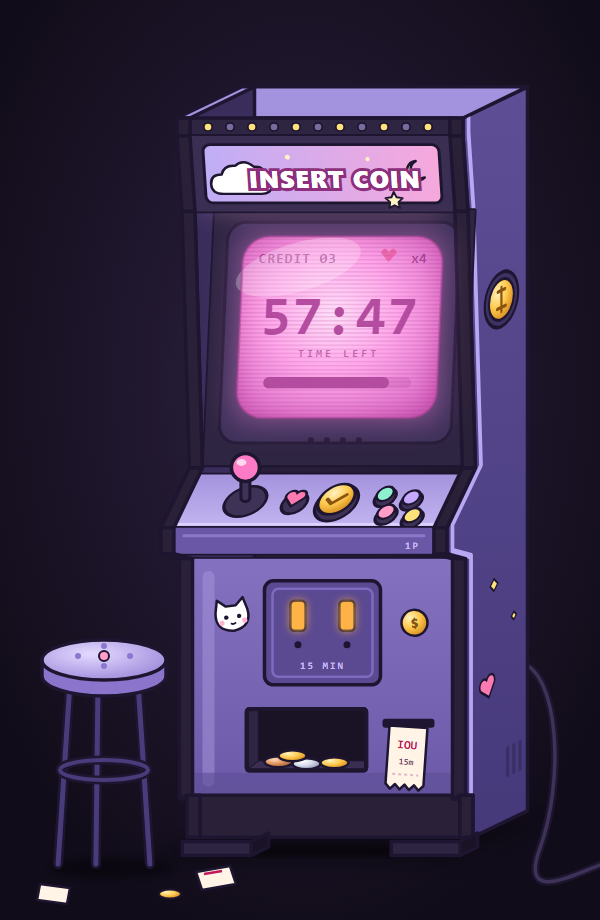
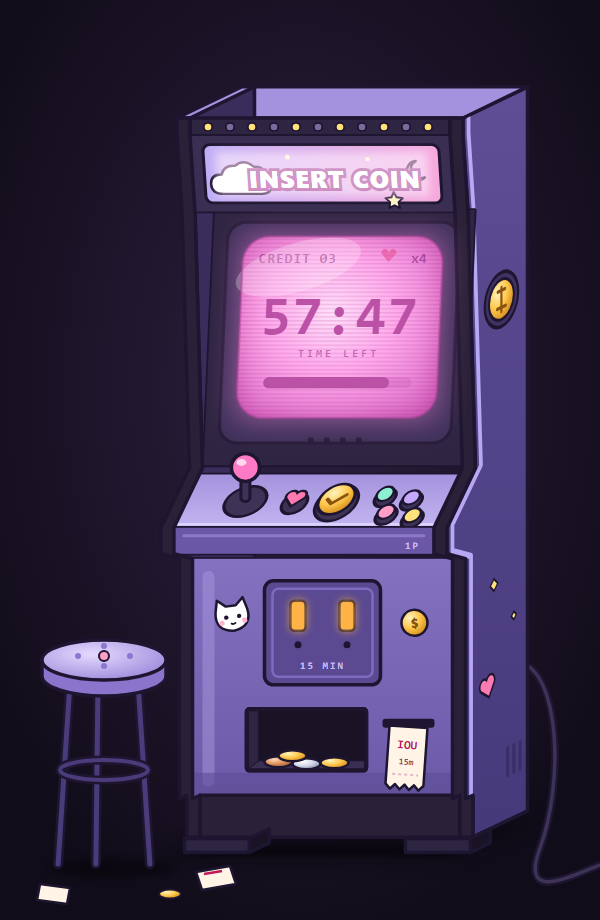
Art v4 cleanup: continuous side trims, feet under kick plate, glows clipped to their surfaces; spike passthrough from art alpha hull

diff --git a/tools/art/cozy_cabinet.py b/tools/art/cozy_cabinet.py
@@ -173,12 +173,14 @@ def marquee_face():
     </g>
     <text x="{W / 2 + 12}" y="54" text-anchor="middle" font-family="Segoe UI Black, Arial Rounded MT Bold, sans-serif" font-size="25"
           font-weight="900" fill="#FFFFFF" stroke="#8E2F7E" stroke-width="6" paint-order="stroke" letter-spacing="1">INSERT COIN</text>'''
-    glow = poly([marquee.to_screen(12, 9), marquee.to_screen(W - 12, 9), marquee.to_screen(W - 12, marquee.length - 9),
-                 marquee.to_screen(12, marquee.length - 9)], "#FFB6EA", 'opacity="0.55" filter="url(#glow)"')
+    glow = (f'<clipPath id="marqueeClip">{poly(marquee.quad(), "#000")}</clipPath>'
+            f'<g clip-path="url(#marqueeClip)" style="mix-blend-mode:screen">'
+            + poly([marquee.to_screen(24, 16), marquee.to_screen(W - 24, 16), marquee.to_screen(W - 24, marquee.length - 16),
+                    marquee.to_screen(24, marquee.length - 16)], "#FFD0F2", 'opacity="0.6" filter="url(#softGlow)"') + '</g>')
     return f'''<g id="marquee">
-  {glow}
   {poly(hood.quad(), "#2E2542", STROKE)}{hood.group(hood_lights)}
   {poly(marquee.quad(), "#3A2E52", STROKE)}{marquee.group(sign)}
+  {glow}
 </g>'''
 
 
@@ -272,18 +274,22 @@ def body_face():
 
 
 def trims():
-    def strip(x0, x1):
-        return "".join(poly([P(x0, z1, y1), P(x1, z1, y1), P(x1, z2, y2), P(x0, z2, y2)], "#2A2138", STROKE)
-                       for (z1, y1), (z2, y2) in zip(EDGE, EDGE[1:]))
-    return f'<g id="trim-left">{strip(L - T, L)}</g>\n<g id="trim-right">{strip(R, R + T)}</g>'
+    def strip(x0, x1, name):
+        outer = [P(x0, z, y) for z, y in EDGE]
+        inner = [P(x1, z, y) for z, y in EDGE]
+        shape = f'<polygon points="{pts(outer + inner[::-1])}" fill="#2A2138"/>'
+        lines = "".join(f'<polyline points="{pts(side)}" fill="none" {STROKE}/>' for side in (outer, inner))
+        caps = f'<polyline points="{pts([outer[0], inner[0]])}" fill="none" {STROKE}/><polyline points="{pts([outer[-1], inner[-1]])}" fill="none" {STROKE}/>'
+        return f'<g id="{name}">{shape}{lines}{caps}</g>'
+    return strip(L - T, L, "trim-left") + strip(R, R + T, "trim-right")
 
 
 def feet():
     def box(x0, x1):
-        front = [P(x0, 2, FLOOR), P(x1, 2, FLOOR), P(x1, 2, FLOOR + 14), P(x0, 2, FLOOR + 14)]
-        side = [P(x1, 2, FLOOR), P(x1, 30, FLOOR), P(x1, 30, FLOOR + 14), P(x1, 2, FLOOR + 14)]
+        front = [P(x0, 12, FLOOR), P(x1, 12, FLOOR), P(x1, 12, FLOOR + 14), P(x0, 12, FLOOR + 14)]
+        side = [P(x1, 12, FLOOR), P(x1, 44, FLOOR), P(x1, 44, FLOOR + 14), P(x1, 12, FLOOR + 14)]
         return poly(side, "#1A1326", STROKE) + poly(front, "#2E2542", STROKE)
-    return f'<g id="feet">{box(L - T + 4, L + 60)}{box(R - 60, R + T - 4)}</g>'
+    return f'<g id="feet">{box(L - T, L + 52)}{box(R - 52, R + T)}</g>'
 
 
 def cable():
@@ -323,7 +329,9 @@ def props():
 
 def screen_glow():
     q = [screen.to_screen(30, 26), screen.to_screen(W - 30, 26), screen.to_screen(W - 30, 204), screen.to_screen(30, 204)]
-    return f'<g id="screen-glow" style="mix-blend-mode:screen">{poly(q, "#FF6FD2", "opacity=\"0.5\" filter=\"url(#glow)\"")}</g>'
+    return (f'<clipPath id="screenFaceClip">{poly(screen.quad(), "#000")}</clipPath>'
+            f'<g id="screen-glow" clip-path="url(#screenFaceClip)" style="mix-blend-mode:screen">'
+            f'{poly(q, "#FF6FD2", "opacity=\"0.55\" filter=\"url(#glow)\"")}</g>')
 
 
 def anchors():

diff --git a/src/InsertCoin.Game/spike/Spike.cs b/src/InsertCoin.Game/spike/Spike.cs
@@ -20,32 +20,12 @@ public partial class Spike : Node2D
                  $"transparent={DisplayServer.IsWindowTransparencyAvailable()} lowcpu={OS.LowProcessorUsageMode}");
 
         // Base art: SVG pre-rendered by Chrome at 2x (keeps text, blur shadows and baked glow).
-        AddChild(new Sprite2D { Texture = GD.Load<Texture2D>("res://skins/cozy/cabinet@2x.png"), Centered = false, Scale = new Vector2(0.5f, 0.5f) });
+        var art = GD.Load<Texture2D>("res://skins/cozy/cabinet@2x.png");
+        AddChild(new Sprite2D { Texture = art, Centered = false, Scale = new Vector2(0.5f, 0.5f) });
 
-        // Animated glow: additive radial halo over the CRT (Compatibility renderer has no usable 2D bloom here).
-        var halo = new Sprite2D
-        {
-            Texture = new GradientTexture2D
-            {
-                Width = 420, Height = 380, Fill = GradientTexture2D.FillEnum.Radial,
-                FillFrom = new Vector2(0.5f, 0.5f), FillTo = new Vector2(0.5f, 0.0f),
-                Gradient = new Gradient { Colors = [new Color(1f, 0.45f, 0.85f, 0.55f), new Color(1f, 0.45f, 0.85f, 0f)], Offsets = [0f, 1f] },
-            },
-            Position = new Vector2(338, 330),
-            Material = new CanvasItemMaterial { BlendMode = CanvasItemMaterial.BlendModeEnum.Add },
-        };
-        AddChild(halo);
-        if (!args.ContainsKey("static"))
-        {
-            var pulse = CreateTween().SetLoops();
-            pulse.TweenProperty(halo, "modulate:a", 0.45f, 1.6).SetTrans(Tween.TransitionType.Sine);
-            pulse.TweenProperty(halo, "modulate:a", 1.0f, 1.6).SetTrans(Tween.TransitionType.Sine);
-        }
-
-        // Click-through everywhere except the cabinet silhouette (window pixels).
-        Vector2[] silhouette = [new(30, 630), new(170, 630), new(170, 118), new(250, 82), new(530, 82), new(530, 812),
-                                new(480, 860), new(240, 905), new(30, 905)];
-        DisplayServer.WindowSetMousePassthrough([.. silhouette.Select(p => p * WindowScale)]);
+        // On Windows the passthrough polygon is a window region: it clips drawing too. So it must enclose every
+        // visible pixel, soft shadows included — take the convex hull of the art's alpha instead of a hand-made shape.
+        DisplayServer.WindowSetMousePassthrough(VisibleHull(art.GetImage(), 0.5f * WindowScale));
 
         if (args.TryGetValue("pos", out var pos) && pos.Split(',') is [var x, var y])
             DisplayServer.WindowSetPosition(new Vector2I(int.Parse(x), int.Parse(y)));
@@ -112,6 +92,14 @@ public partial class Spike : Node2D
                 GetTree().Quit();
                 break;
         }
+    }
+
+    private static Vector2[] VisibleHull(Image image, float toWindow)
+    {
+        var alpha = new Bitmap();
+        alpha.CreateFromImageAlpha(image, 0.004f);
+        var points = alpha.OpaqueToPolygons(new Rect2I(Vector2I.Zero, image.GetSize()), 2f).SelectMany(p => p);
+        return [.. Geometry2D.ConvexHull([.. points]).Select(p => (p * toWindow).Round())];
     }
 
     private static Dictionary<string, string> ParseArgs() =>
